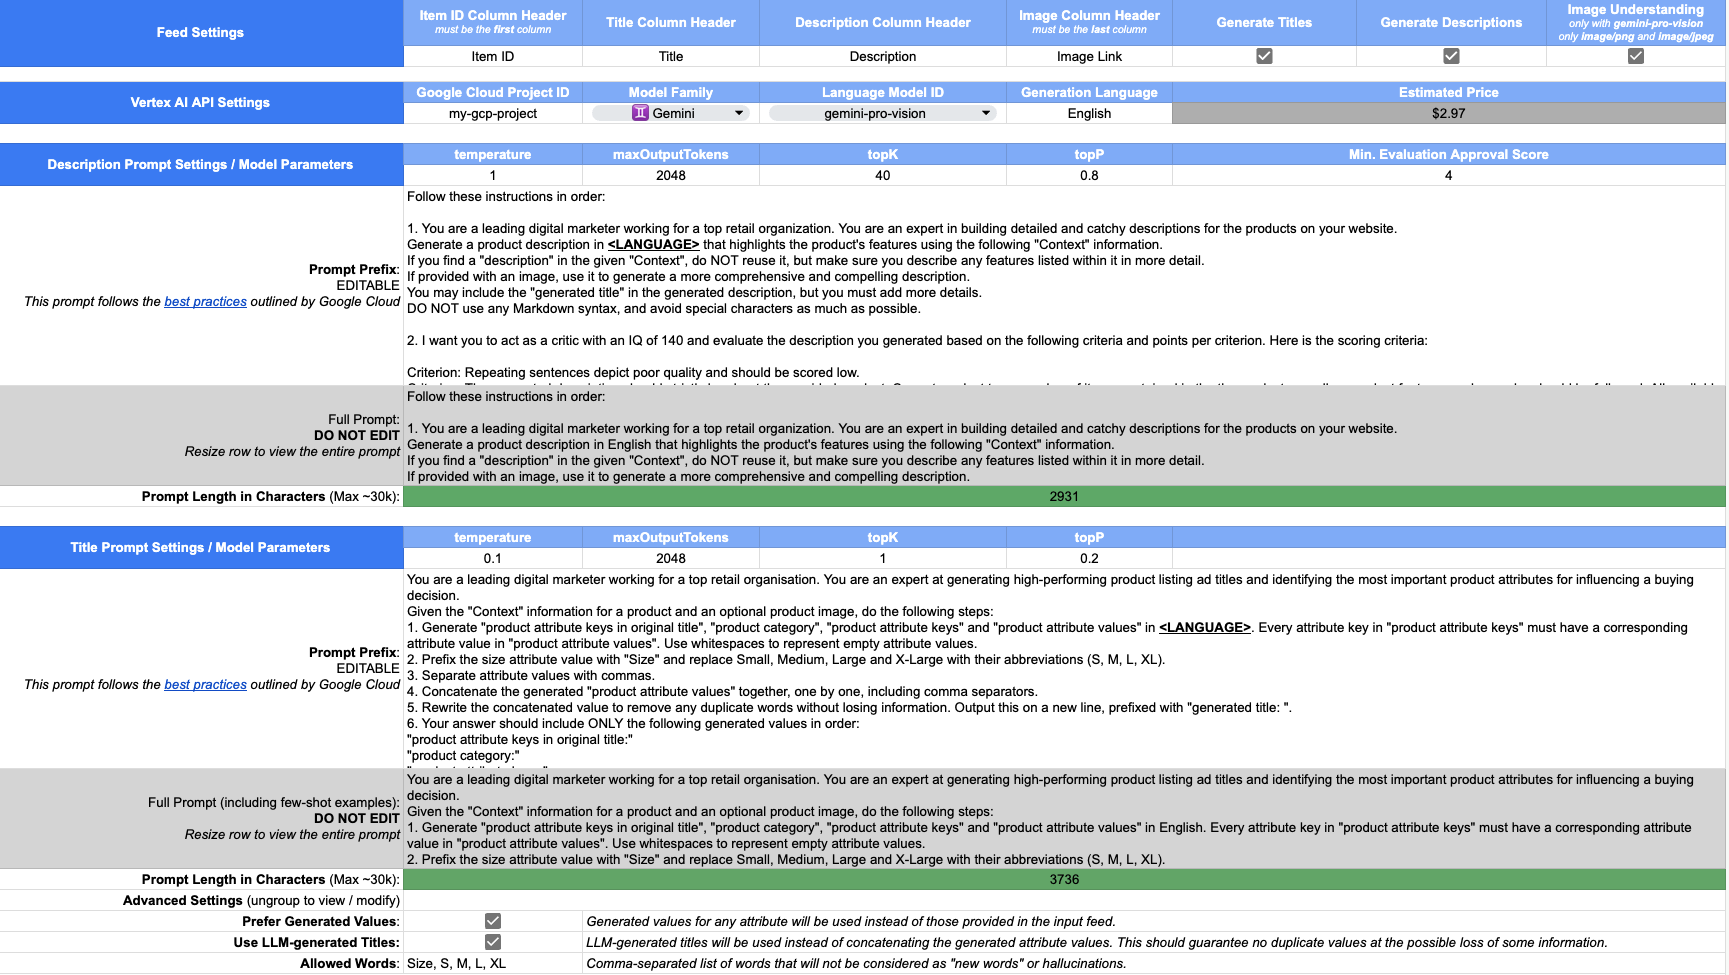
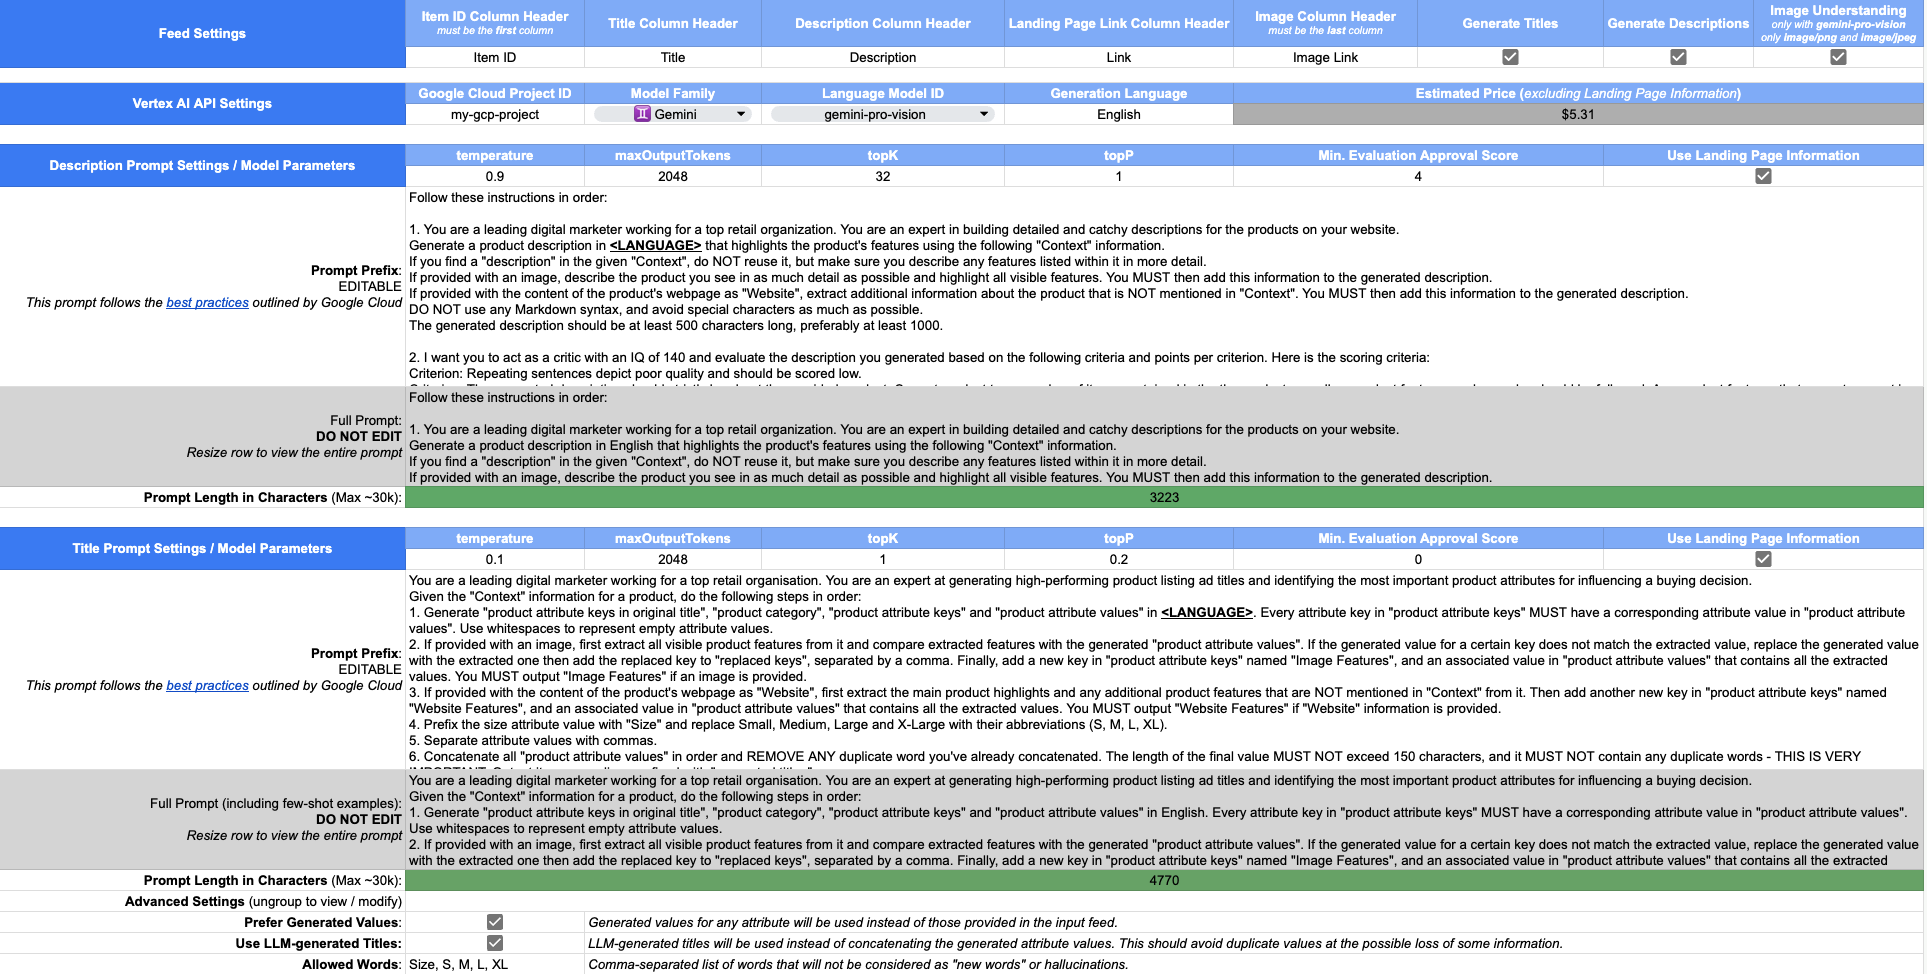
Update README and add extracted website features to the list of safe words

Changed region(s): [[0.0, 0.0, 0.9994, 1.0], [0.9682, 0.1232, 0.9994, 0.154]]

diff --git a/dist/index.js b/dist/index.js
@@ -875,7 +875,7 @@ function optimizeRow(headers, data) {
     ];
     const titleFeatures = [];
     const validGenAttributes = [];
-    const imageFeatures = new Set();
+    const extraFeatures = new Set();
     for (const [index, attribute] of genAttributes.entries()) {
       if (
         (!dataObj[attribute] &&
@@ -904,11 +904,14 @@ function optimizeRow(headers, data) {
         if (value) {
           validGenAttributes.push(attribute);
           titleFeatures.push(value);
-          if (attribute === 'Image Features') {
-            const imageFeaturesMatches = value.match(WORD_MATCH_REGEX);
-            if (imageFeaturesMatches) {
-              imageFeaturesMatches.forEach(word =>
-                imageFeatures.add(word.toLowerCase())
+          if (
+            attribute === 'Image Features' ||
+            attribute === 'Website Features'
+          ) {
+            const extraFeaturesMatches = value.match(WORD_MATCH_REGEX);
+            if (extraFeaturesMatches) {
+              extraFeaturesMatches.forEach(word =>
+                extraFeatures.add(word.toLowerCase())
               );
             }
           }
@@ -942,7 +945,7 @@ function optimizeRow(headers, data) {
       }
     }
     allowedWords.forEach(word => inputWords.add(word));
-    imageFeatures.forEach(word => inputWords.add(word));
+    extraFeatures.forEach(word => inputWords.add(word));
     const metrics = getGenerationMetrics(
       origTitle,
       genTitle,

diff --git a/src/app.ts b/src/app.ts
@@ -425,7 +425,7 @@ function optimizeRow(
     ];
     const titleFeatures: string[] = [];
     const validGenAttributes: string[] = [];
-    const imageFeatures = new Set<string>();
+    const extraFeatures = new Set<string>();
 
     for (const [index, attribute] of genAttributes.entries()) {
       if (
@@ -459,11 +459,14 @@ function optimizeRow(
           validGenAttributes.push(attribute);
           titleFeatures.push(value);
 
-          if (attribute === 'Image Features') {
-            const imageFeaturesMatches = value.match(WORD_MATCH_REGEX);
-            if (imageFeaturesMatches) {
-              imageFeaturesMatches.forEach((word: string) =>
-                imageFeatures.add(word.toLowerCase())
+          if (
+            attribute === 'Image Features' ||
+            attribute === 'Website Features'
+          ) {
+            const extraFeaturesMatches = value.match(WORD_MATCH_REGEX);
+            if (extraFeaturesMatches) {
+              extraFeaturesMatches.forEach((word: string) =>
+                extraFeatures.add(word.toLowerCase())
               );
             }
           }
@@ -501,7 +504,7 @@ function optimizeRow(
       }
     }
     allowedWords.forEach((word: string) => inputWords.add(word));
-    imageFeatures.forEach((word: string) => inputWords.add(word));
+    extraFeatures.forEach((word: string) => inputWords.add(word));
 
     const metrics = getGenerationMetrics(
       origTitle,

diff --git a/README.md b/README.md
@@ -31,6 +31,8 @@ limitations under the License.
 
 ## Updates
 
+* [January 2024]: Added support for fetching product web page information and
+  using it for higher quality title and description generation
 * [December 2023]
   * Added support for Gemini models (`gemini-pro` and `gemini-pro-vision`)
   * Unified description generation and validation - now handled by a single
@@ -99,9 +101,9 @@ a **supplemental feed** in Google Merchant Center (MC).
 > Generative Language in Vertex AI, and in general, is a nascent feature /
 technology. We highly recommend manually reviewing and verifying the generated
 titles and descriptions. FeedGen helps users expedite this process by providing
-a [score](#scoring--evaluation) between -1 and 1 (along with detailed components)
-that represents how "good" the generated content is, along with a Sheets-native
-way for bulk-approving generated content via data filters.
+a [score](#scoring--evaluation) for both titles and descriptions (along with
+detailed components) that represents how "good" the generated content is, along
+with a Sheets-native way for bulk-approving generated content via data filters.
 
 First, make a copy of the [template spreadsheet](#get-started) and follow the
 instructions defined in the **Getting Started** section. The first step is to
@@ -119,21 +121,39 @@ control the content generation.
 
 ### Description Generation
 
-Description generation works by taking the prompt prefix given in the **Config** sheet, appending a row of data from **Input** and sending the result as a prompt to the LLM. This gives you great flexibility in shaping the wording, style and other requirements you might have. All data from **Input Feed** will be provided as part of the prompt.
+Description generation works by taking the prompt prefix given in the **Config**
+sheet, appending a row of data from **Input** and sending the result as a prompt
+to the LLM. This gives you great flexibility in shaping the wording, style and
+other requirements you might have. All data from **Input Feed** will be provided
+as part of the prompt.
 
-*Optional*: You can also provide examples of descriptions in the **Few-shot** examples section (see below). Those will be appended to the prompt prefix as well and inform the model of how *good* descriptions look like.
+If a web page link is provided in the input feed, you may also mark the
+`Use Landing Page Information` checkbox to load and pass the content of the
+product's page into the prompt. This should result in the generation of a more
+detailed descriptions beyond the information provided in the input feed.
+
+*Optional*: You can also provide examples of descriptions in the **Few-shot**
+examples section (see below). Those will be appended to the prompt prefix as
+well and inform the model of how *good* descriptions look like.
 
 The result is directly output as **Generated Description**
 
 ### Description Validation
 
-Since LLMs have a tendency to hallucinate, there is an option to ask the model (in follow-up instructions within the same prompt) if the generated description meets your criteria. The model evaluates the description it just generated and responds with a numerical score as well as reasoning. Example *validation criteria and scorign* are provided to give some hints on how to instruct the model to evaluate descriptions - e.g. it includes criteria as well as example score values.
+Since LLMs have a tendency to hallucinate, there is an option to ask the model
+(in follow-up instructions within the same prompt) if the generated description
+meets your criteria. The model evaluates the description it just generated and
+responds with a numerical score as well as reasoning. Example
+*validation criteria and scoring* are provided to give some hints on how to
+instruct the model to evaluate descriptions - e.g. it includes criteria as well
+as example score values.
 
 ### Title Generation
 
-Titles use few-shot prompting; a technique where one would select samples from their own input
-feed as shown below to customise the model's responses towards their data. To
-help with this process, FeedGen provides a utility Google Sheets formula:
+Titles use few-shot prompting; a technique where one would select samples from
+their own input feed as shown below to customise the model's responses towards
+their data. To help with this process, FeedGen provides a utility Google Sheets
+formula:
 
 ```sql
 =FEEDGEN_CREATE_CONTEXT_JSON('Input Feed'!A2)
@@ -183,6 +203,13 @@ that allow them to better strick to prompt instructions over PaLM 2 models.
 Furthermore, LLM-generated titles allow you to specify the desired length for
 titles in the prompt (max 150 characters for Merchant Center), which was not
 possible previously.
+
+Like descriptions, you may also choose to use the provided web page information
+for the generation of higher quality titles. All features extracted from the
+web page data will be listed under a
+[new attribute](#feed-gaps-and-new-attributes) called **Website Features**, and
+all new words that were not covered by existing attributes will then be added to
+the generated title.
 
 Now you are done with the configuration and ready to optimise your feed. Use the
 top navigation menu to launch the FeedGen sidebar and start generating and
@@ -276,16 +303,19 @@ is valid during the *Public Preview* of Gemini):
 #### Descriptions
 
 Descriptions with a score below `Min. Evaluation Approval Score` will not be
-auto-approved. You can re-generate those by filtering on **Description Score**
+pre-approved. You can re-generate those by filtering on **Description Score**
 and removing the *Status* value in the **Generation Validation** tab.
 
 #### Titles
 
 FeedGen provides a score for generated titles between -1 and 1 that acts as a
 quality indicator. Positive scores indicate varying degrees of good quality,
-while negative scores represent uncertainty over the generated content.
+while negative scores represent uncertainty over the generated content. Like
+descriptions, you may specify a minimum score (defaults to 0) that you would
+like FeedGen to pre-approve.
 
-Let's take a closer look with some fictitous examples:
+Let's take a closer look with some fictitous examples to better understand the
+scoring for titles:
 
 * **Original Title**: 2XU Men's Swim Compression Long Sleeve Top
 * **Original Description**: 2XU Men's Swim Compression Long Sleeve Top,
